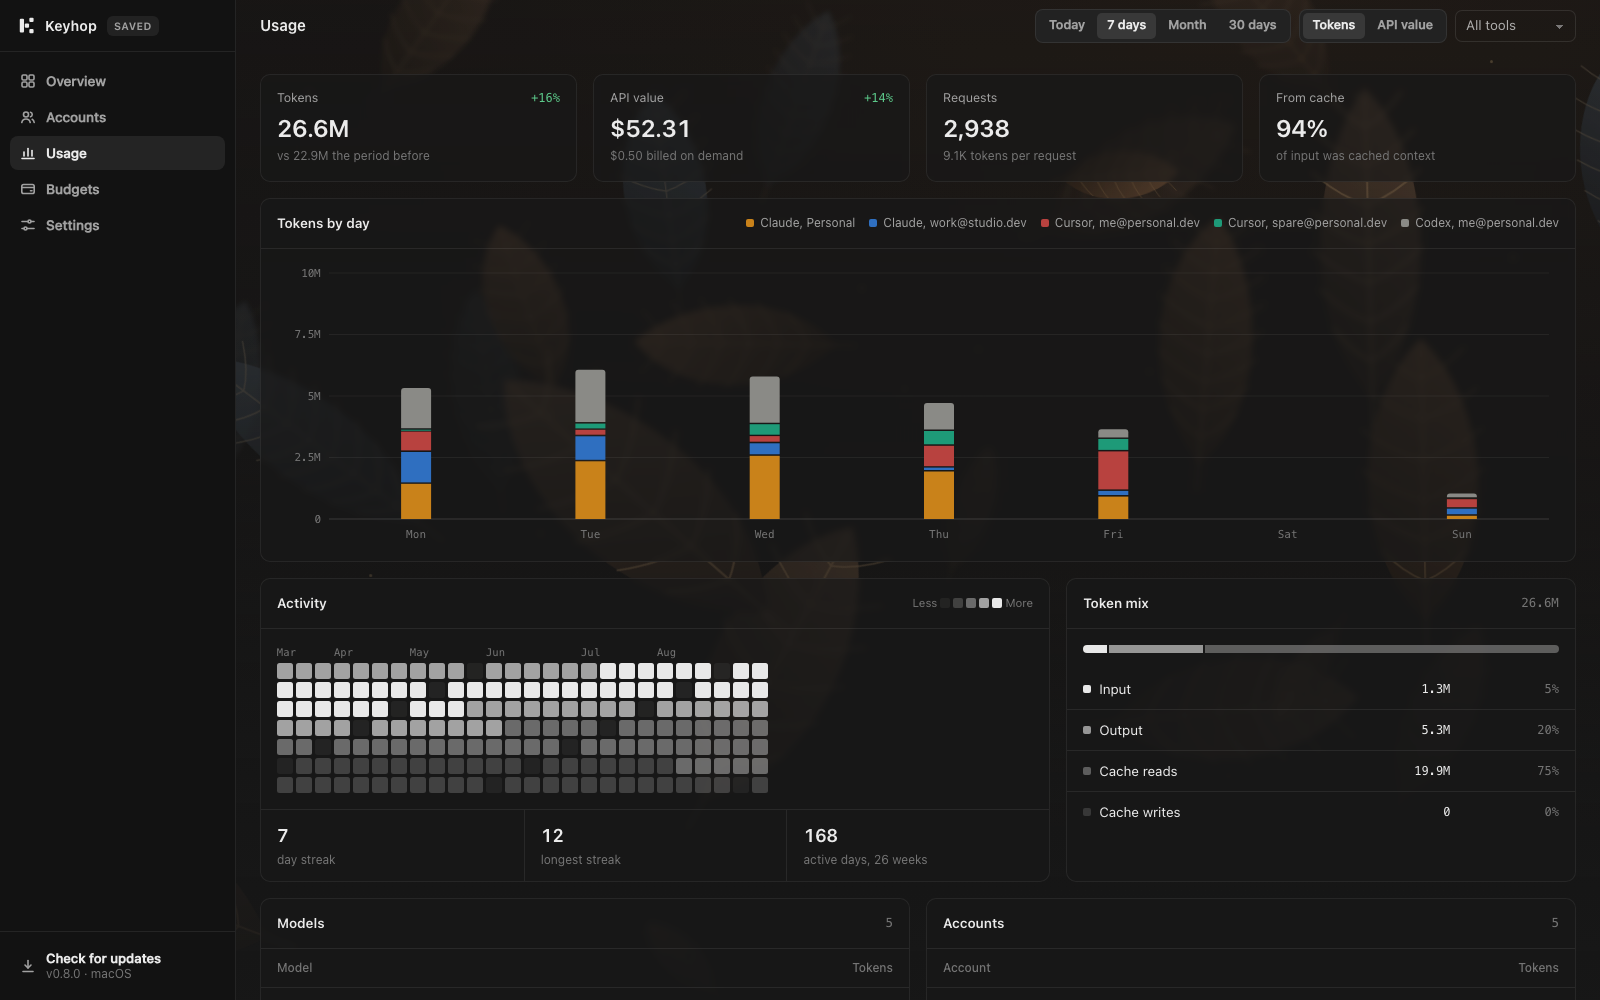
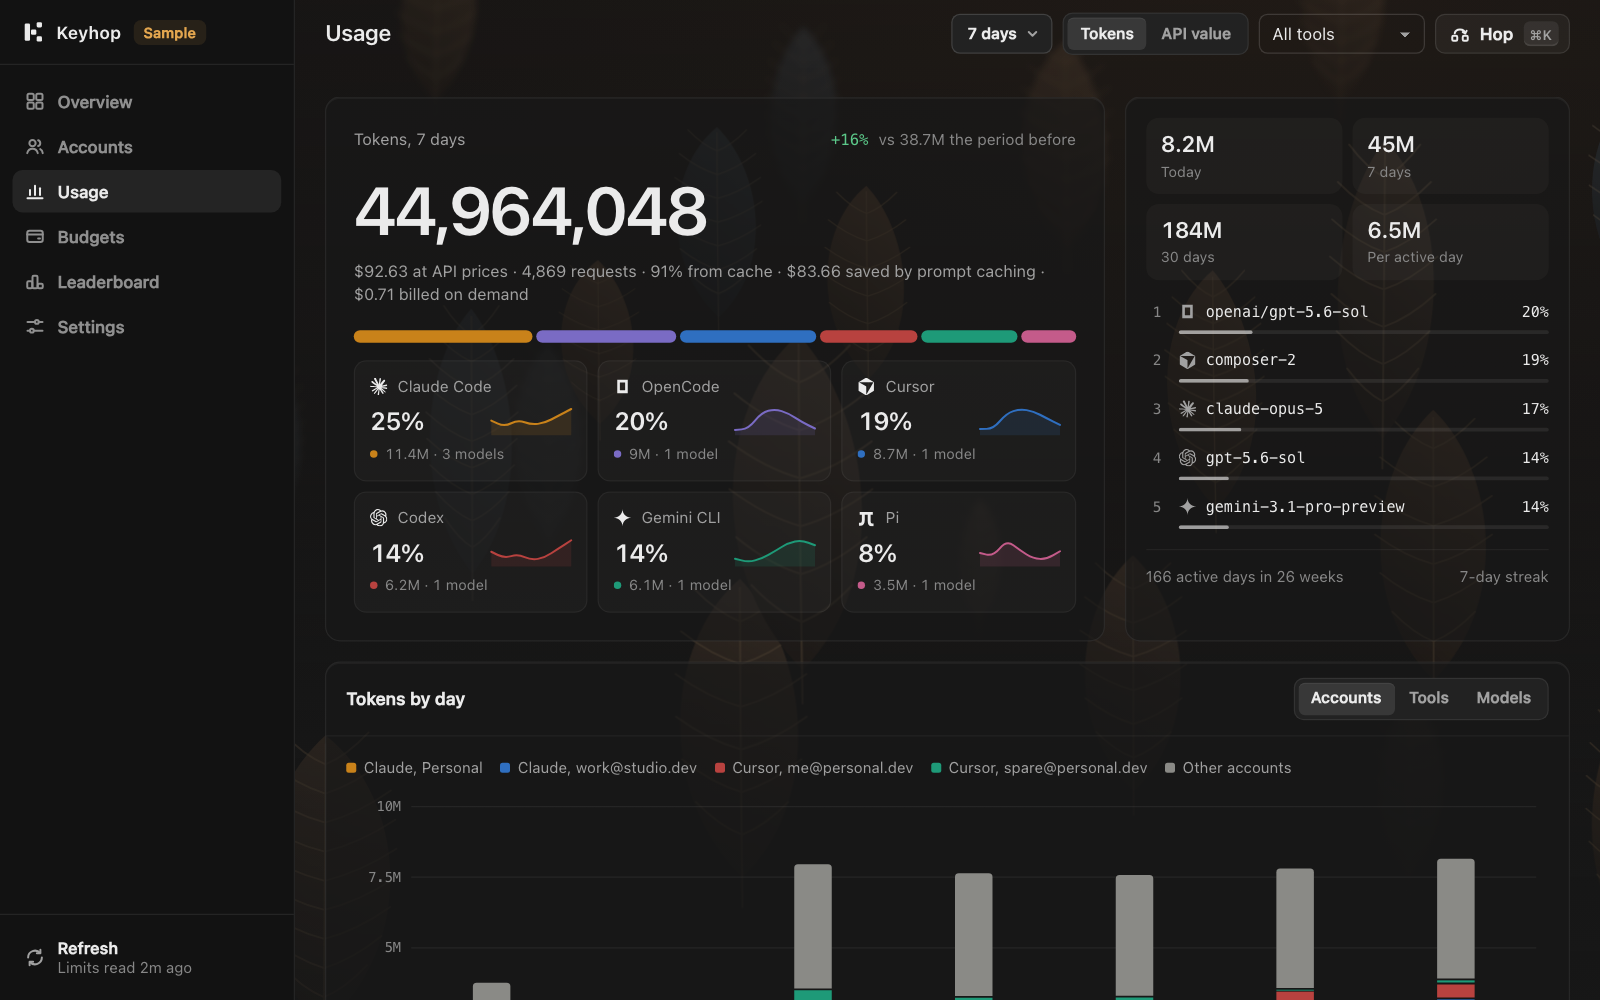
fix(welcome): fit nine tools in the first window, reshoot the docs
With every supported tool as a row, the welcome window's content outgrew its 540 points: the
mark was cut off at the top and the Continue button fell off the bottom. Logins found get a
row, up to three, and one line names the rest.

The README screenshots still showed 0.8.0; they now show Hop, the Leaderboard section, the
new menu tabs and the welcome window as it is. The changelog covers this branch.

diff --git a/Sources/Keyhop/UI/Welcome.swift b/Sources/Keyhop/UI/Welcome.swift
@@ -98,10 +98,23 @@ struct WelcomeView: View {
                 .foregroundStyle(Brand.muted)
                 .padding(.top, 4)
 
+            // Nine tools do not fit a 540-point window as rows. The logins found get a row each,
+            // up to three, and one line names everything else, so the window keeps its size
+            // however many tools Keyhop learns.
             VStack(spacing: 0) {
-                ForEach(Array(Provider.allCases.enumerated()), id: \.offset) { index, provider in
+                ForEach(Array(shown.enumerated()), id: \.offset) { index, provider in
                     if index > 0 { RowDivider() }
                     DetectionRow(provider: provider)
+                }
+                if let summary {
+                    if !shown.isEmpty { RowDivider() }
+                    Text(summary)
+                        .font(.system(size: 12))
+                        .foregroundStyle(Brand.subtle)
+                        .fixedSize(horizontal: false, vertical: true)
+                        .frame(maxWidth: .infinity, alignment: .leading)
+                        .padding(.horizontal, 14)
+                        .padding(.vertical, 12)
                 }
             }
             .card()
@@ -211,6 +224,26 @@ struct WelcomeView: View {
         // Held on the type, since the window reads it after this view is gone.
         Self.leaderboardWanted = openingLeaderboard
         dismiss()
+    }
+
+    private static let rowLimit = 3
+
+    private var found: [Provider] { Provider.allCases.filter { !store.accounts(for: $0).isEmpty } }
+    private var shown: [Provider] { Array(found.prefix(Self.rowLimit)) }
+
+    private var summary: String? {
+        if store.lastRefresh == nil && found.isEmpty { return "Looking for AI-tool logins on this Mac…" }
+        let alsoFound = found.dropFirst(Self.rowLimit).map(\.name)
+        let rest = Provider.allCases.filter { !found.contains($0) }.map(\.name)
+        var parts: [String] = []
+        if found.isEmpty { parts.append("No AI-tool logins found yet.") }
+        if !alsoFound.isEmpty { parts.append("Also found \(Self.list(alsoFound)).") }
+        if !rest.isEmpty { parts.append("Works with \(Self.list(rest)) once you sign in.") }
+        return parts.isEmpty ? nil : parts.joined(separator: " ")
+    }
+
+    private static func list(_ names: [String]) -> String {
+        names.count < 2 ? names.joined() : names.dropLast().joined(separator: ", ") + " and " + names.last!
     }
 
     private var footnote: String {

diff --git a/CHANGELOG.md b/CHANGELOG.md
@@ -3,6 +3,13 @@
 ## [Unreleased]
 
 - Keyhop's window, menu and welcome window go back to the system typeface (SF Pro on a Mac), in regular, medium and semibold only, on a calmer size scale. Basteleur is gone. Every figure that changes, from the total counting up to a limit's percentage, uses digits of one width, so a number never shifts what stands beside it.
+- Jump to is now Hop, on Cmd-K or Ctrl-K. It searches sections, ranges, tools and accounts, and its button stays in the same place on every section.
+- Settings shows one category at a time (Appearance, Activity, App & Privacy) instead of one long page. Checking for updates shows its own wait and no longer lights the limits progress bar.
+- Usage says what prompt caching saved: cache reads priced against each model's full input rate. Cache writes are already part of the API value, so the figure only counts the read discount.
+- Switching sections no longer flashes the sidebar.
+- The menu's tool tabs show just each tool's mark, and the panel below names the tool and how many accounts it has. When limits were last updated is shown as plain text beside the refresh button, and a check for updates says it is checking. Buttons dip slightly when pressed, except with Reduce Motion on.
+- The welcome window fits again now that Keyhop supports nine tools. Each login it found gets a row, up to three, and one line names the rest.
+- iPhone: screen titles and card titles are headings for VoiceOver. Empty Quests, Badges and This week cards say what fills them. Alerts says what it is for, and the season screen is titled Season & limits.
 
 ## [0.12.0]
 

diff --git a/README.md b/README.md
@@ -18,7 +18,7 @@
 </p>
 
 <p align="center">
-  <img src="docs/dashboard.png" width="860" alt="The Keyhop dashboard with sample accounts: today's tokens and API value, each tool's account in use with its limits, today by hour and the last 7 days">
+  <img src="docs/dashboard.png" width="860" alt="The Keyhop dashboard with sample accounts: a limit, budget and outage alert, today's tokens beside an hour-by-hour dot matrix, the streak, API value, this week and the closest limit, then each tool's account in use">
 </p>
 
 <p align="center">
@@ -158,7 +158,7 @@ Keyhop keeps its own record of what every account uses.
 - **Smart Hop:** the recommendation combines remaining limit room, budget room, reset timing and projected runout, with stable tie-breaking so the same data always gives the same answer.
 
 <p align="center">
-  <img src="docs/dashboard-usage.png" width="860" alt="The dashboard's Usage section with sample data: tokens, API value, requests and cache share, a stacked chart by account, 26 weeks of activity, token mix, models and accounts">
+  <img src="docs/dashboard-usage.png" width="860" alt="The dashboard's Usage section with sample data: the 7-day token total with its API value and what prompt caching saved, a tile per tool with its share and trend, the top models, and tokens by day">
 </p>
 
 ## Leaderboards
